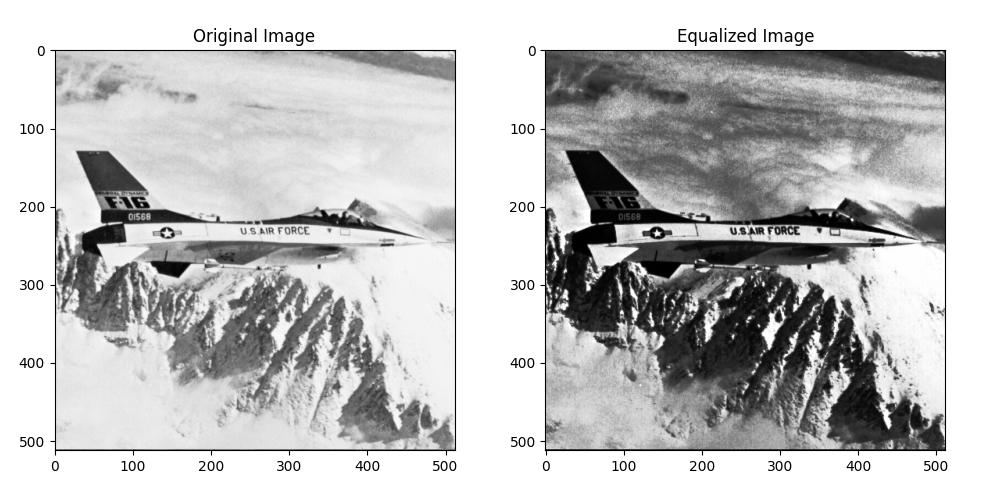
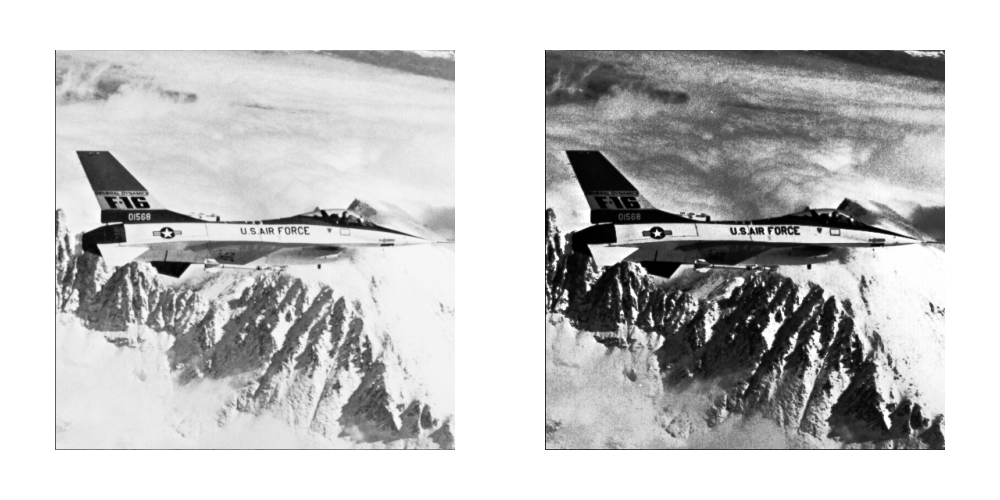
histogram_equalization cdf part needs to be corrected.

diff --git a/Photoshop/src/photoshop.py b/Photoshop/src/photoshop.py
@@ -188,8 +188,8 @@ class App(customtkinter.CTk):
         self.img = img_as_ubyte(io.imread(PATH + self.image_choice.get(), as_gray=True))
         self.negate_filter = 255 - self.img
         self.image_file_name = self.image_choice.get().split('.')[0]
-        # self.plot_image(self.img, title='Original', image_name='_'.join([self.image_file_name,'original.png']))
-        self.plot_image(self.negate_filter, title='Negate', image_name='_'.join([self.image_file_name,'negate.png']))
+        # self.plot_image(self.img, image_name='_'.join([self.image_file_name,'original.png']))
+        self.plot_image(self.negate_filter, image_name='_'.join([self.image_file_name,'negate.png']))
         self.display_image_function(''.join([PATH, self.image_file_name, '_negate.png']))
 
 
@@ -204,8 +204,8 @@ class App(customtkinter.CTk):
         self.img = img_as_ubyte(io.imread(PATH + self.image_choice.get(), as_gray=True))
         self.gamma_corrected = (self.img / 255) ** self.gamma * 255
         self.image_file_name = self.image_choice.get().split('.')[0]
-        # self.plot_image(self.img, title='Original', image_name='_'.join([self.image_file_name,'original.png']))
-        self.plot_image(self.gamma_corrected, title='Gamma corrected', image_name='_'.join([self.image_file_name,'gamma_corrected.png']))
+        # self.plot_image(self.img, image_name='_'.join([self.image_file_name,'original.png']))
+        self.plot_image(self.gamma_corrected,  image_name='_'.join([self.image_file_name,'gamma_corrected.png']))
         self.display_image_function(''.join([PATH, self.image_file_name, '_gamma_corrected.png']))
 
     def log_transformation_filter(self):
@@ -216,8 +216,8 @@ class App(customtkinter.CTk):
         self.img = img_as_ubyte(io.imread(PATH + self.image_choice.get(), as_gray=True))
         self.log_corrected = self.c * np.log(1 + self.img)
         self.image_file_name = self.image_choice.get().split('.')[0]
-        # self.plot_image(self.img, title='Original', image_name='_'.join([self.image_file_name,'original.png']))
-        self.plot_image(self.log_corrected, title='Logarithmic transformation', image_name='_'.join([self.image_file_name,'logarithmic_corrected.png']))
+        # self.plot_image(self.img, image_name='_'.join([self.image_file_name,'original.png']))
+        self.plot_image(self.log_corrected, image_name='_'.join([self.image_file_name,'logarithmic_corrected.png']))
         self.display_image_function(''.join([PATH, self.image_file_name, '_logarithmic_corrected.png']))
 
     def gray_filter(self):
@@ -255,12 +255,28 @@ class App(customtkinter.CTk):
                 # Set the grayscale value in the img_gray array
                 self.img_gray[y, x] = self.gray_value
 
+
+        # self.image_file_name = self.image_choice.get().split('.')[0]
+
+        fig, axes = plt.subplots(1, 2, figsize=(10, 5), facecolor='none')
+        fig.subplots_adjust(left=0.05, right=0.95, bottom=0.1, top=0.9, wspace=0.2)
+
+        axes[0].imshow(self.img)
+        axes[1].imshow(self.img_gray, cmap='gray')
+        axes[0].axis('off')
+        axes[1].axis('off')
+        axes[0].set_title('')
+        axes[1].set_title('')
         self.image_file_name = self.image_choice.get().split('.')[0]
-        # self.plot_image(self.img, title='Original', image_name='_'.join([self.image_file_name,'original.png']))
-        self.plot_image(self.img_gray, title='Logarithmic transformation', image_name='_'.join([self.image_file_name,'gray.png']))
+        self.image_path = ''.join([PATH, self.image_file_name,'_gray.png'])
+        plt.savefig(self.image_path)
+
+        self.plot_image(self.img_gray, image_name='_'.join([self.image_file_name,'gray_only.png']))
         self.display_image_function(''.join([PATH, self.image_file_name, '_gray.png']))
 
+
     def histogram_maker(self):
+        print('Path: ', PATH + self.image_choice.get())
         self.img = img_as_ubyte(io.imread(PATH + self.image_choice.get(), as_gray=True))
         self.img_min, self.img_max = self.img.min(), self.img.max()
         # Create an empty dictionary to store pixel value counts
@@ -282,6 +298,10 @@ class App(customtkinter.CTk):
         plt.xlabel("Pixel Values")
         plt.ylabel("Frequency")
         plt.bar(self.pixel_values, self.counts_list)
+        plt.xlabel("Pixel Values")
+        plt.ylabel("Frequency")
+        plt.bar(self.pixel_values, self.counts_list)
+
         self.image_file_name = self.image_choice.get().split('.')[0]
         self.image_path = ''.join([PATH, self.image_file_name,'_histogram.png'])
         plt.savefig(self.image_path)
@@ -298,22 +318,25 @@ class App(customtkinter.CTk):
         cdf_mapped = np.round(cdf_normalized * 255).astype(np.uint8)
 
         # Map each pixel value to its new value using the CDF
-        img_equalized = np.interp(self.img.flatten(), self.bins[:-1], cdf_mapped)
+        self.img_equalized = np.interp(self.img.flatten(), self.bins[:-1], cdf_mapped)
 
         # Reshape the equalized image and convert it back to 8-bit unsigned integer
-        img_equalized = img_equalized.reshape(self.img.shape).astype(np.uint8)
+        self.img_equalized = self.img_equalized.reshape(self.img.shape).astype(np.uint8)
 
         # Display the original and equalized images side by side
-        fig, axes = plt.subplots(1, 2, figsize=(10, 5))
+        fig, axes = plt.subplots(1, 2, figsize=(10, 5), facecolor='none')
         fig.subplots_adjust(left=0.05, right=0.95, bottom=0.1, top=0.9, wspace=0.2)
         axes[0].imshow(self.img, cmap='gray')
-        axes[0].set_title('Original Image')
-        axes[1].imshow(img_equalized, cmap='gray')
-        axes[1].set_title('Equalized Image')
+        axes[1].imshow(self.img_equalized, cmap='gray')
+        axes[0].axis('off')
+        axes[1].axis('off')
+        axes[0].set_title('')
+        axes[1].set_title('')
 
         self.image_file_name = self.image_choice.get().split('.')[0]
         self.image_path = ''.join([PATH, self.image_file_name,'_equalization.png'])
         plt.savefig(self.image_path)
+        self.plot_image(self.img_equalized, image_name='_'.join([self.image_file_name,'equalization_only.png']))
         self.display_image_function(''.join([PATH, self.image_file_name, '_equalization.png']))
 
 
@@ -333,8 +356,7 @@ class App(customtkinter.CTk):
 
 
 
-    def plot_image(self, image, cmap_value:str = 'Greys_r', title: str = '', image_name:str = ''):
-        plt.title(title)
+    def plot_image(self, image, cmap_value:str = 'Greys_r', image_name:str = ''):
         image_name = PATH + image_name
         plt.imsave(image_name, image, cmap=cmap_value)
 
